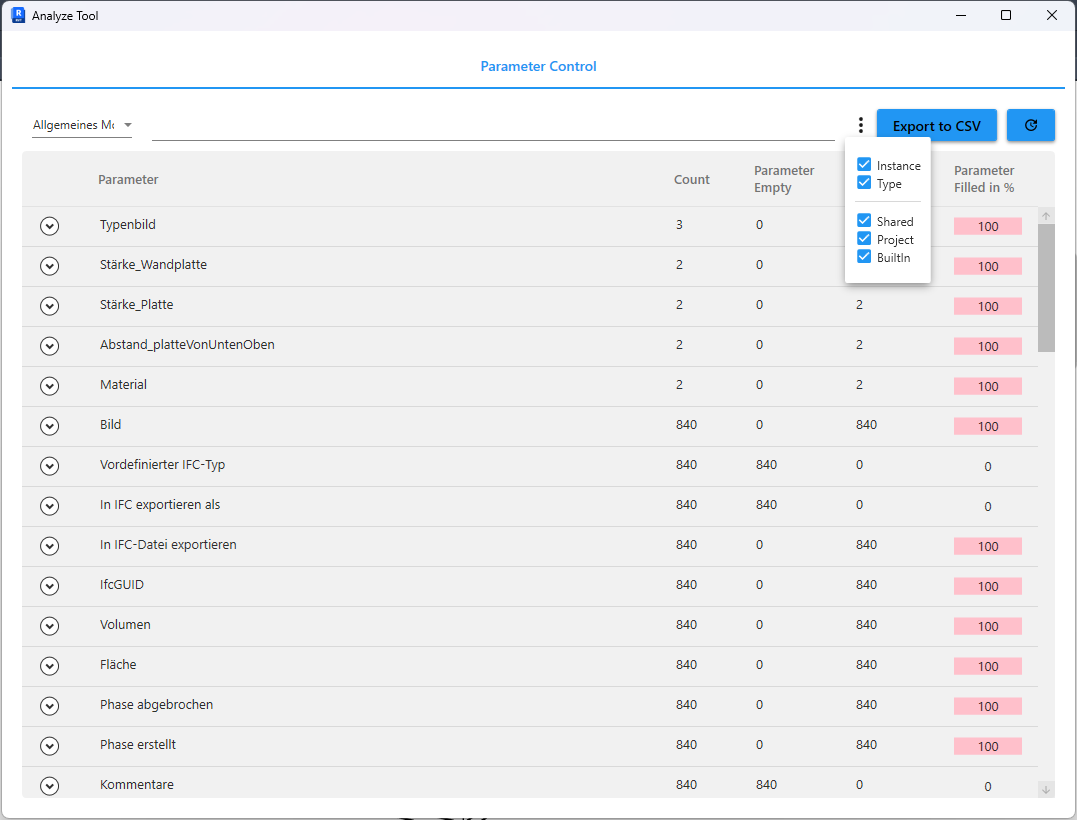
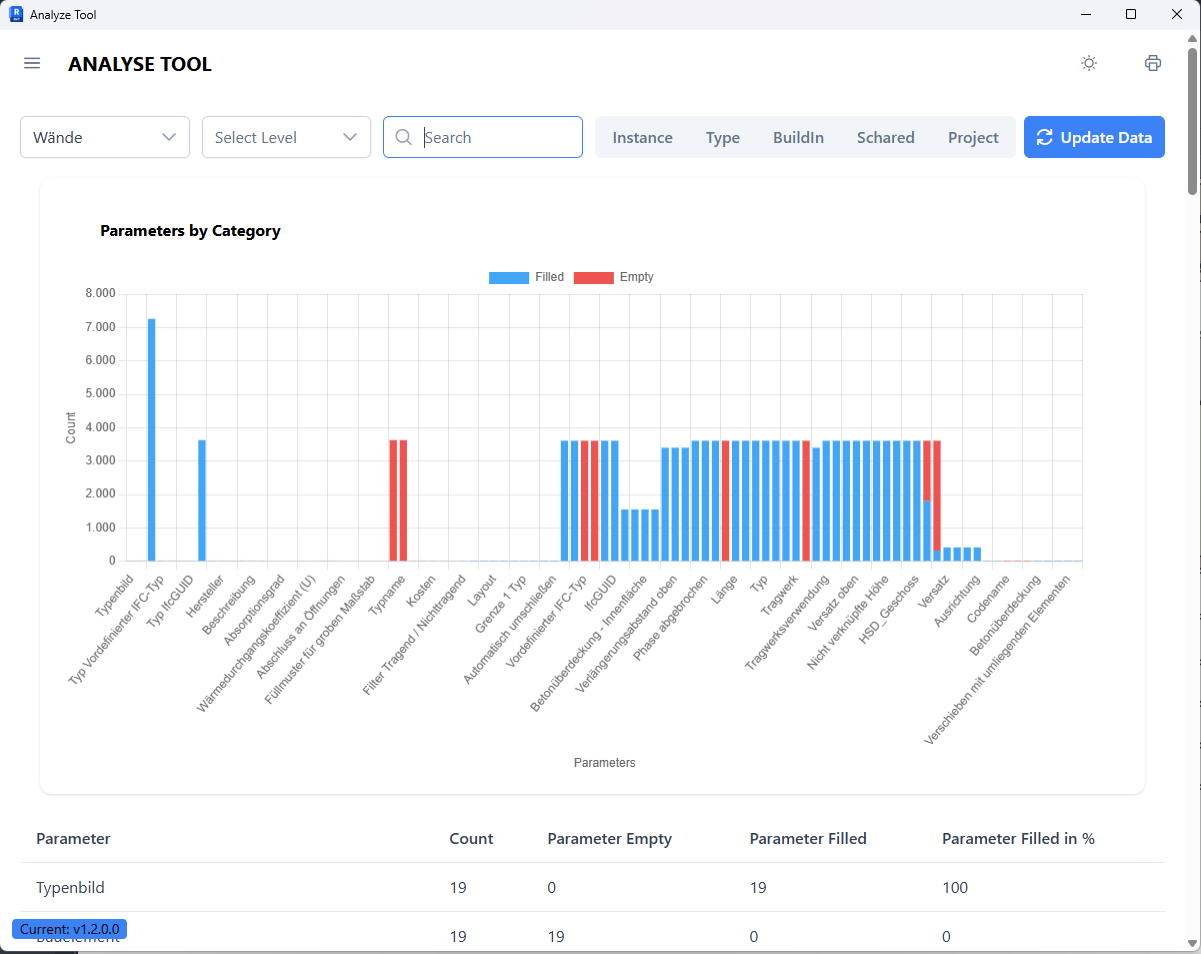
update readme

diff --git a/README.md b/README.md
@@ -1,65 +1,109 @@
-# AnalyseTool Plugin for Revit
+# AnalyseTool for Revit
 
 [![github release version](https://img.shields.io/github/v/release/Nikola1Davydov/AnalyzeTool.svg?include_prereleases)](https://github.com/Nikola1Davydov/AnalyzeTool/releases/latest) [![license](https://img.shields.io/github/license/nhn/tui.editor.svg)](https://github.com/Nikola1Davydov/AnalyzeTool/blob/master/LICENSE) ![Static Badge](https://img.shields.io/badge/revitVersion-2025--2026-blue) [![LINKEDIN](https://img.shields.io/badge/LINKEDIN-_NikolaiDavydov-ff1414)](https://linkedin.com/in/nikolai-davydov-4359bba1)
 
 ## Overview
 
-![AnalyseTool Screenshot](img/Overview_2.png)
+AnalyseTool is a Revit plugin that inspects element parameters and lets you act on them right from a modern WebView2 UI. The new frontend is built with Vue + PrimeVue, so anyone who knows only JavaScript or TypeScript can extend the UI and business logic without touching C#.
+![AnalyseTool Screenshot](img/Overview.png)
 
-The AnalyseTool Plugin is a powerful tool for Autodesk Revit that allows users to analyze and export parameter data of elements within a Revit project. With this plugin, you can easily export data to CSV formats, making it easier to manage and share project information.
+## Compatibility
 
-## ⚙ Installation
+- Revit 2025�2026
+- Windows with WebView2 and .NET 8
 
-1. **Download it**: [AnalyseTool Releases](https://github.com/Nikola1Davydov/AnalyzeTool/releases)
-2. **Install it**
-3. **Use it**
-4. **Give some Feedback**
+## Features
 
-## 🚀 Features
+- View every parameter grouped by category; filter by Instance/Type or BuiltIn/Shared/Project.
+- Clickable fill/empty chart to select elements with or without values.
+- Select or temporarily isolate elements directly from the web UI.
+- Update checker against GitHub releases.
 
-- **Parameter Analysis**: Analyze all parameters in your Revit project. Parameters are grouped by name and categories. You can also view parameters grouped by value — showing which are empty and which are filled.
-- **Export to CSV**: Export analyzed data to a CSV file.
+## Installation
 
-![Filter in AnalyzeTool](img/filter.png)
+1. Download the latest installer/zip from [Releases](https://github.com/Nikola1Davydov/AnalyzeTool/releases/latest).
+2. Close Revit and install.
 
-## 🛠 Usage
+## How to Use
 
-#### Analyzing Parameters
+1. Open your project and start `Add-Ins -> AnalyseTool`.
+2. Pick a category; parameters and elements load automatically.
+3. Use filters to narrow results. Click the chart to select elements with filled/empty values; use isolate to focus the view.
 
-1. **Open Revit Project**: Open your project in Revit.
-2. **Launch AnalyseTool**: Go to `Add-Ins` > `AnalyseTool` to launch the plugin.
-3. **View Parameters**: The plugin will display a list of parameters for elements in your project.
-4. **Filter Parameters**: Use the filter box to search for specific parameters.
+## Architecture
 
-#### Export to CSV
+- Backend: `AnalyseTool/RevitCommands` (C#) handles Selection, Isolation, category queries, data retrieval, and update checks.
+- Frontend: `clientapp` (Vue 3 + Vite + TypeScript) runs in WebView2 and talks to Revit over a simple message bridge.
+- Messaging: `chrome.webview.postMessage` (frontend) ? `WebMessageReceived` (C#).
 
-1. Click the `Export to CSV` button.
-2. Choose the location to save the CSV file.
-3. Click `Save`.
+## Frontend for JS/TS Developers
 
-## 🔧 Development
+You can extend the plugin using only JS/TS:
 
-#### For Developers
+- All web UI code lives in `clientapp` (Vue + PrimeVue).
+- Revit interactions go through `clientapp/src/RevitBridge.ts`.
 
-1. Clone the repository:
-   ```sh
-   git clone https://github.com/your-repo/AnalyseTool.git
-   ```
-2. Open the Solution:
-   - Open the solution file in Visual Studio.
-3. Restore NuGet Packages:
-   - Ensure all required NuGet packages are restored.
-4. Build the Solution:
-   - Build the project to generate the necessary DLL files.
+## RevitBridge API (clientapp/src/RevitBridge.ts)
 
-### 🤝 Contributing
+Available commands and payloads:
 
-Contributions are what make the open-source community such an amazing place to learn, inspire, and create. Any contributions you make are **greatly appreciated**.
+- `GetCategories` � payload: `null` ? response: `string[]` of category names.
+- `GetDataByCategoryName` � payload: `{ categoryName: string }` ? response: `ElementItem[]`.
+- `Selection` � payload: `{ elementIds: number[] }` ? selects elements in Revit.
+- `Isolation` � payload: `{ elementIds: number[] }` ? isolates elements in the active view.
+- `CheckUpdate` � payload: `null` ? response: `{ currentVersion?, latestVersion?, isUpdateAvailable?, releaseUrl? }`.
 
-If you have a suggestion that would make this better, please fork the repo and create a pull request. You can also simply open an issue with the tag "enhancement". Don't forget to give the project a star! Thanks again!
+Data contracts (`clientapp/src/stores/types.ts`):
 
-1. **Fork the Project**
-2. **Create your Feature Branch** (`git checkout -b feature/AmazingFeature`)
-3. **Commit your Changes** (`git commit -m 'Add some AmazingFeature'`)
-4. **Push to the Branch** (`git push origin feature/AmazingFeature`)
-5. **Open a Pull Request**
+```ts
+export interface ElementItem {
+  name: string;
+  id: number;
+  level: string;
+  categoryName: string;
+  isElementType: boolean;
+  parameters: ParameterData[];
+}
+
+export interface ParameterData {
+  name: string;
+  id: number;
+  value: string;
+  level: string;
+  elementId: number;
+  isTypeParameter: boolean;
+  orgin: number;
+}
+```
+
+### JS/TS usage examples
+
+```ts
+import { Commands, sendRequest } from "./src/RevitBridge";
+
+// Get categories
+const categories = await sendRequest(Commands.GetCategories, null);
+
+// Load elements by category
+const walls = await sendRequest(Commands.GetDataByCategoryName, {
+  categoryName: "Walls",
+});
+
+// Select all loaded elements
+await sendRequest(Commands.Selection, { elementIds: walls.map((x) => x.id) });
+
+// Isolate elements with empty parameters
+const emptyElementIds = walls
+  .filter((el) => el.parameters.some((p) => !p.value))
+  .map((el) => el.id);
+await sendRequest(Commands.Isolation, { elementIds: emptyElementIds });
+
+// Check for updates
+await sendRequest(Commands.CheckUpdate, null);
+```
+
+Responses are also delivered via `chrome.webview.addEventListener("message", ...)` � see handling in `clientapp/src/App.vue`.
+
+## Feedback
+
+Open an issue or PR in this repo. If you need more JS/TS APIs or samples, feel free to ask.
